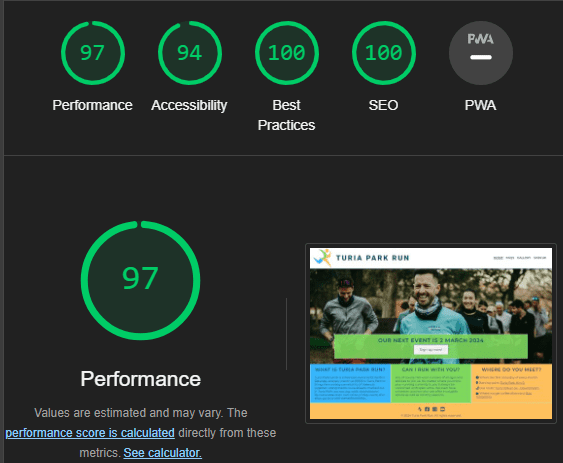
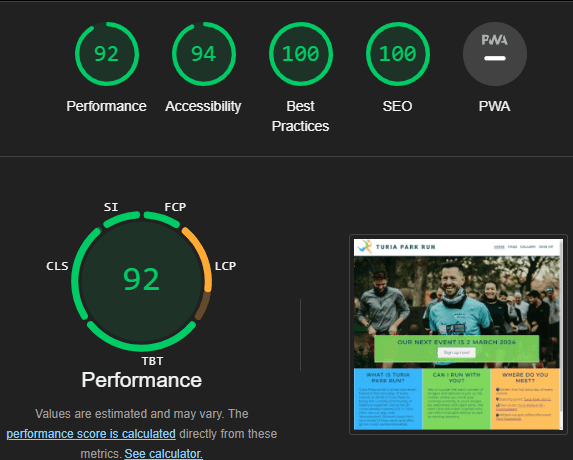
Update images in readme to reflect new styles for footer

diff --git a/README.md b/README.md
@@ -136,7 +136,7 @@ The purpose of this website is to inform potential runners of the event e.g. dat
 
 * This site was developed with a colour scheme that is visually appealing but also very minimal, always considering the accessibility of the user.
 * All images used have an alt description attribute and the icons used for social media links use the aria-label attribute.
-* Using [Lighthouse](https://developer.chrome.com/docs/lighthouse/overview), this site scored an accessibility rating of 94 and a 97-performance rating overall.
+* Using [Lighthouse](https://developer.chrome.com/docs/lighthouse/overview), this site scored an accessibility rating of 94 and a 92-performance rating overall.
 
 ![Screenshot of Lighthouse Desktop Score](assets/images/readme-images/lighthouse-desktop.png)
 
@@ -154,7 +154,7 @@ The purpose of this website is to inform potential runners of the event e.g. dat
 * This site was inspired by the Love Running walkthrough and many of the pages have used code from it. Without this resource, it would have been difficult to produce something so professional.
 * The FAQ page was adapted from ['How to Create an Effective Faq Page Design with HTML and CSS'](https://www.youtube.com/watch?v=6U-8kIx2oMk).
 * Advice was given by my mentor as well direct support from the Code Institute.
-* To clean up HTML and CSS [Webformatter](https://webformatter.com/) was used.
+* To clean up the HTML and CSS [Webformatter](https://webformatter.com/) was used.
 
 ### Media
 
